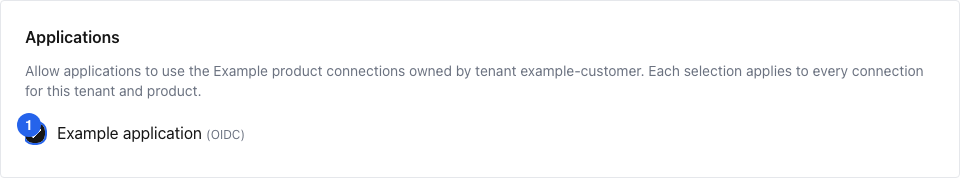
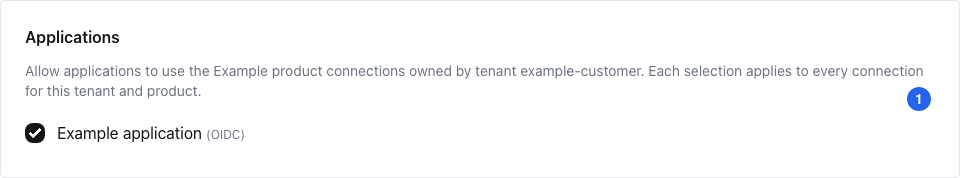
Clarify route retirement and pilot cleanup in the guide.

Changed region(s): [[0.0, 0.6461, 0.0625, 0.8146], [0.9375, 0.4775, 0.9688, 0.618]]

diff --git a/e2e/guides/capture.spec.ts b/e2e/guides/capture.spec.ts
@@ -16,7 +16,7 @@ async function capture(page: Page, name: string, target: Locator, callouts: Loca
       badge.textContent = String(number);
       Object.assign(badge.style, {
         position: 'absolute',
-        top: `${rect.top + window.scrollY - 10}px`,
+        top: `${rect.top + window.scrollY - (element.tagName === 'LABEL' ? 26 : 10)}px`,
         left: `${rect.right + window.scrollX - 28}px`,
         zIndex: '1000',
         width: '24px',
@@ -143,7 +143,10 @@ test('refresh guide screenshots from synthetic local UI', async ({ page, browser
   const membership = page.getByRole('region', { name: 'Applications', exact: true });
   const routing = page.getByRole('region', { name: 'Login routing', exact: true });
   await routing.getByLabel('Domains or exact email addresses').fill('pilot@example.test');
-  await capture(page, 'application-membership', membership, [membership.getByRole('checkbox')]);
+  await expect(membership.getByRole('checkbox')).toBeChecked();
+  await capture(page, 'application-membership', membership, [
+    membership.locator('label').filter({ has: page.getByRole('checkbox') }),
+  ]);
   await capture(page, 'pilot-routing', routing, [
     routing.getByLabel('Domains or exact email addresses'),
     routing.getByRole('button', { name: 'Review and publish', exact: true }),
@@ -155,8 +158,9 @@ test('refresh guide screenshots from synthetic local UI', async ({ page, browser
   await routing.getByRole('button', { name: 'Review and publish', exact: true }).click();
   const confirmation = routing.getByRole('dialog');
   await expect(confirmation).toContainText('Example Company — existing');
+  await expect(confirmation.getByRole('checkbox')).toBeChecked();
   await capture(page, 'move-confirmation', confirmation, [
-    confirmation.getByRole('checkbox'),
+    confirmation.locator('label').filter({ has: page.getByRole('checkbox') }),
     confirmation.getByRole('button', { name: 'Require SSO for these matches', exact: true }),
   ]);
 });

diff --git a/PATCHES.md b/PATCHES.md
@@ -120,6 +120,16 @@ rebase/release branch. Published tags are never moved.
     bytes without changing the schema; unsupported engines refuse these operations.
     Failed comparisons leave indexes/TTL unchanged. Ordinary storage retains its
     existing contract, and routing revisions do not depend on encryption or clocks.
+12. **Provide a static, illustrated enterprise SSO administration guide.**
+    Generic MDX and synthetic screenshots explain setup, pilot publication, domain
+    moves and recovery without changing configuration. Sidebar/Dashboard links and
+    guide-scoped print styles are the only shared UI changes. Rebase seams:
+    `components/Sidebar.tsx`, `components/layouts/AccountLayout.tsx`,
+    `pages/admin/dashboard.tsx`; content lives in `components/guides/` and
+    `pages/admin/guides/`, with images in `public/guides/`.
+    Test: `npx playwright test --config playwright.guides.config.ts`.
+    Refresh screenshots: `POLIS_GUIDE_CAPTURE=1 npx playwright test --config playwright.guides.config.ts`.
+    Both use the isolated memory-backed harness; captures never use customer data.
 
 Invariants the series must keep, and the tests that hold them:
 
